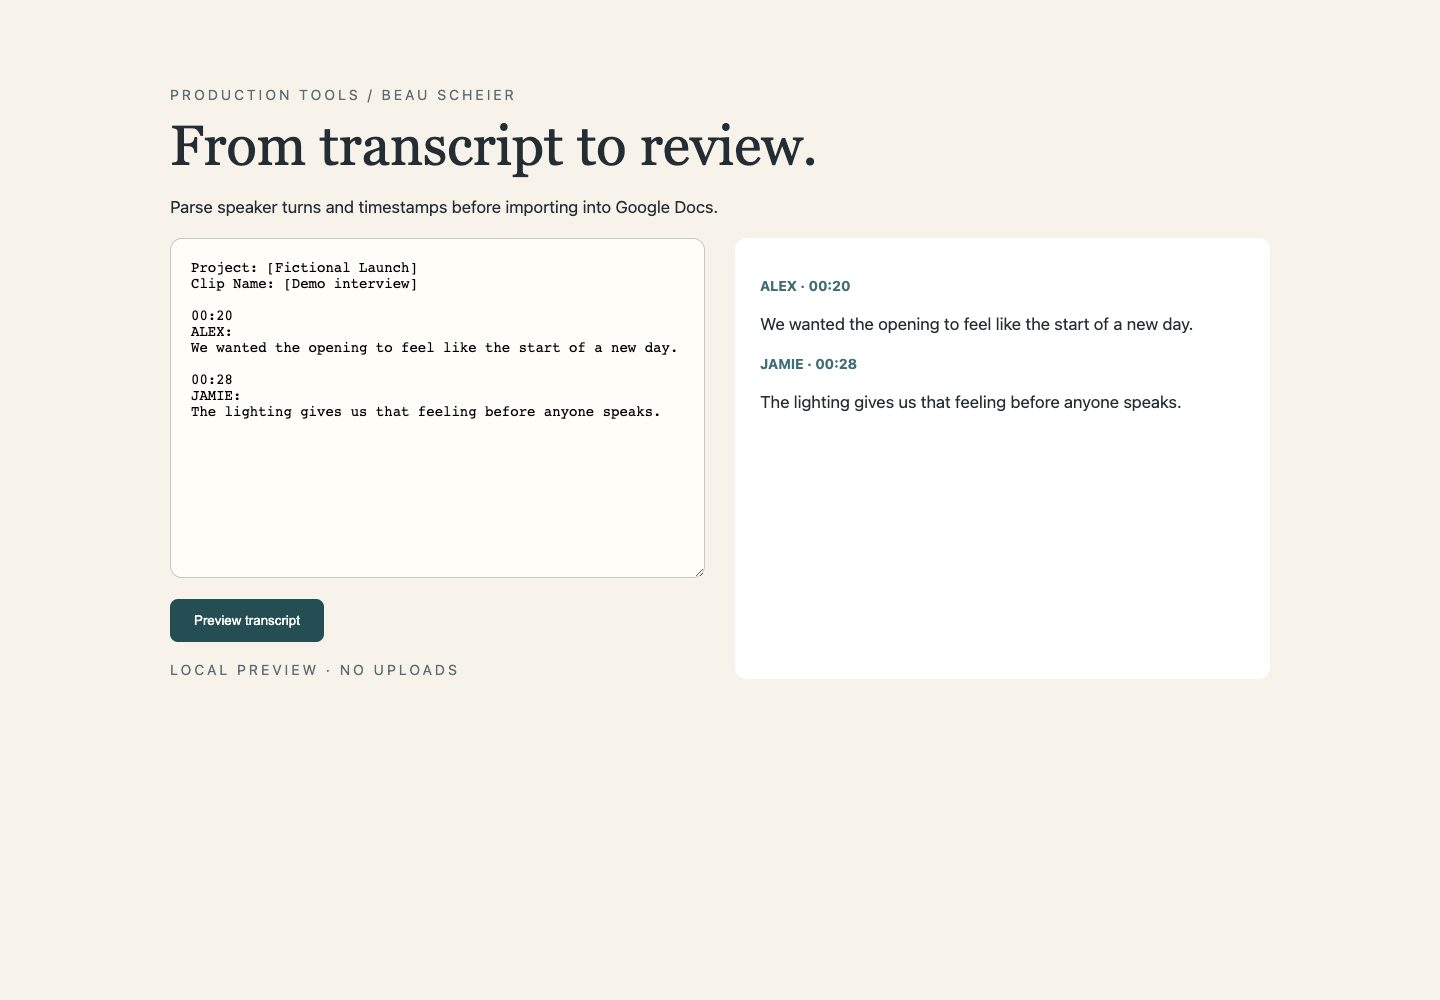
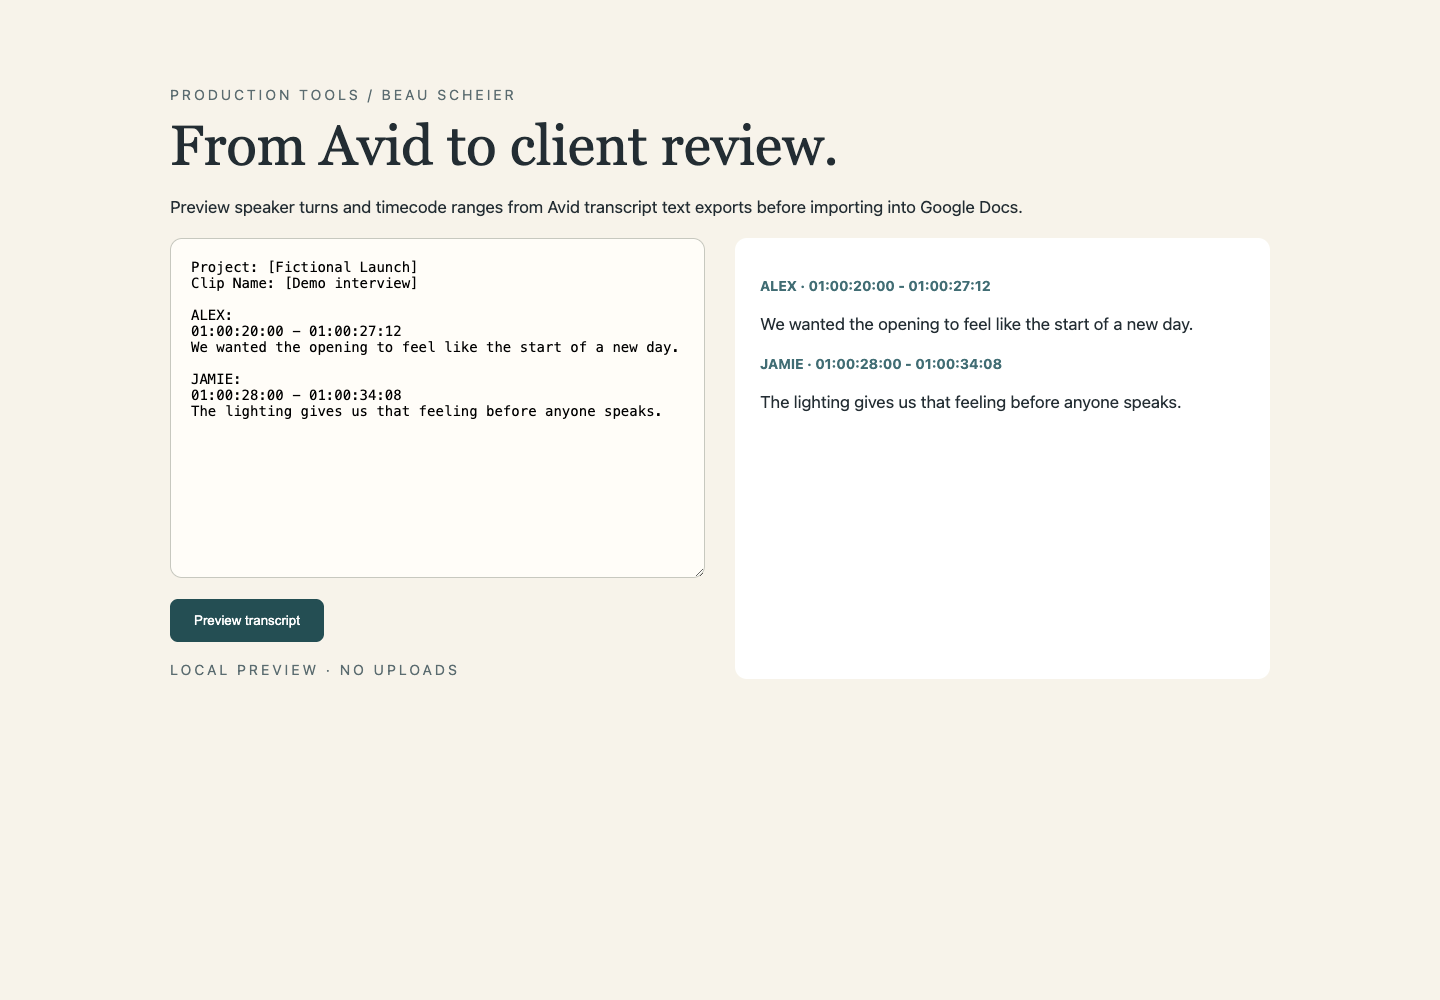
Present importer specifically for Avid transcript exports

diff --git a/demo/index.html b/demo/index.html
@@ -3,7 +3,7 @@
   <meta charset="utf-8" /><meta
     name="viewport"
     content="width=device-width"
-  /><title>Transcript Importer · Preview</title
+  /><title>Avid Transcript Importer · Preview</title
   ><style>
     body {
       background: #f7f3ea;
@@ -67,20 +67,20 @@
       }
     }</style
   ><small>PRODUCTION TOOLS / BEAU SCHEIER</small>
-  <h1>From transcript to review.</h1>
-  <p>Parse speaker turns and timestamps before importing into Google Docs.</p>
+  <h1>From Avid to client review.</h1>
+  <p>Preview speaker turns and timecode ranges from Avid transcript text exports before importing into Google Docs.</p>
   <main>
     <section>
       <textarea id="input">
 Project: [Fictional Launch]
 Clip Name: [Demo interview]
 
-00:20
 ALEX:
+01:00:20:00 - 01:00:27:12
 We wanted the opening to feel like the start of a new day.
 
-00:28
 JAMIE:
+01:00:28:00 - 01:00:34:08
 The lighting gives us that feeling before anyone speaks.</textarea
       >
       <p><button id="preview">Preview transcript</button></p>

diff --git a/ImporterDialog.html b/ImporterDialog.html
@@ -75,11 +75,11 @@
   </style>
 </head>
 <body>
-  <h2>Import Client Transcript(s)</h2>
-  <p class="hint">Drop .txt transcript files below. Files are checked before anything is written to the document.</p>
+  <h2>Import Avid Transcript(s)</h2>
+  <p class="hint">Drop Avid transcript .txt exports below. Files are checked before anything is written to the document.</p>
 
   <div id="dropzone">
-    <strong>Drop transcript .txt files here</strong><br>
+    <strong>Drop Avid transcript .txt exports here</strong><br>
     or click to choose files
   </div>
   <input type="file" id="fileInput" accept=".txt,text/plain" multiple>

diff --git a/demo/parser.js b/demo/parser.js
@@ -1,7 +1,7 @@
 function onOpen() {
   DocumentApp.getUi()
     .createMenu('Transcript Import')
-    .addItem('Import Client Transcript(s)', 'showTranscriptImporter')
+    .addItem('Import Avid Transcript(s)', 'showTranscriptImporter')
     .addToUi();
 }
 
@@ -11,7 +11,7 @@ function showTranscriptImporter() {
     .setWidth(760)
     .setHeight(680);
 
-  DocumentApp.getUi().showModalDialog(html, 'Import Client Transcript(s)');
+  DocumentApp.getUi().showModalDialog(html, 'Import Avid Transcript(s)');
 }
 
 /**

diff --git a/README.md b/README.md
@@ -1,17 +1,18 @@
-# Transcript Importer
+# Avid Transcript Importer
 
-**Turn raw transcripts into readable client-review documents.**
+**Turn Avid transcript text exports into readable client-review documents in Google Docs.**
 
 ![Application preview using synthetic or procedural content](docs/preview.png)
 
-Transcript Importer accepts several common transcript layouts, checks them before import, and formats speaker turns and timestamps in Google Docs.
+Avid Transcript Importer prepares transcript `.txt` exports from Avid Media Composer for client review in Google Docs. It checks speaker turns and timecodes before import, then formats them into readable review pages.
 
 It addresses a small but recurring production task: turning machine-shaped text into something people can comfortably review.
 
 ## What it does
 
 - Drag-and-drop transcript files with preflight reporting.
-- Timestamp-before-speaker, speaker-before-timecode, and inline speaker formats.
+- Avid-style speaker labels followed by timecode ranges (`HH:MM:SS:FF - HH:MM:SS:FF`).
+- Compatibility with timestamp-before-speaker and inline speaker text layouts.
 - Speaker-turn formatting with optional timestamps.
 - Several cleanup levels.
 - An independent browser preview using the same parser.
@@ -32,7 +33,7 @@ To use the actual importer:
 1. Create a new Google Doc.
 2. Open **Extensions → Apps Script**.
 3. Paste `Code.gs` into the script editor and add `ImporterDialog.html` as an HTML file named `ImporterDialog`.
-4. Save, reload the Doc, and choose **Transcript Import → Import Client Transcript(s)**.
+4. Save, reload the Doc, and choose **Transcript Import → Import Avid Transcript(s)**.
 5. Authorize document access when Google requests it, then try `examples/review.txt` in the new document.
 
 The manifest is provided in `appsscript.json`. No script IDs, account configuration, or client transcripts are included.
@@ -42,6 +43,8 @@ The manifest is provided in `appsscript.json`. No script IDs, account configurat
 The parser and document writer are in `Code.gs`. `ImporterDialog.html` provides the Google Docs dialog. The local demo copies the same source into a browser-compatible script. Node VM tests exercise parsing and preflight without Google service access.
 
 ## Scope and limitations
+
+This tool works with exported transcript text; it does not open Avid bins or projects, import AAF media, or perform speech-to-text transcription. The fictional example illustrates a supported Avid-style text layout; it is not an export captured from a live Avid session.
 
 The parser is heuristic: review speaker labels and cleanup results. Automated checks cover parsing and preflight; they do not replace a final Google Docs integration check. The browser preview demonstrates parsing and is not the document writer.
 
